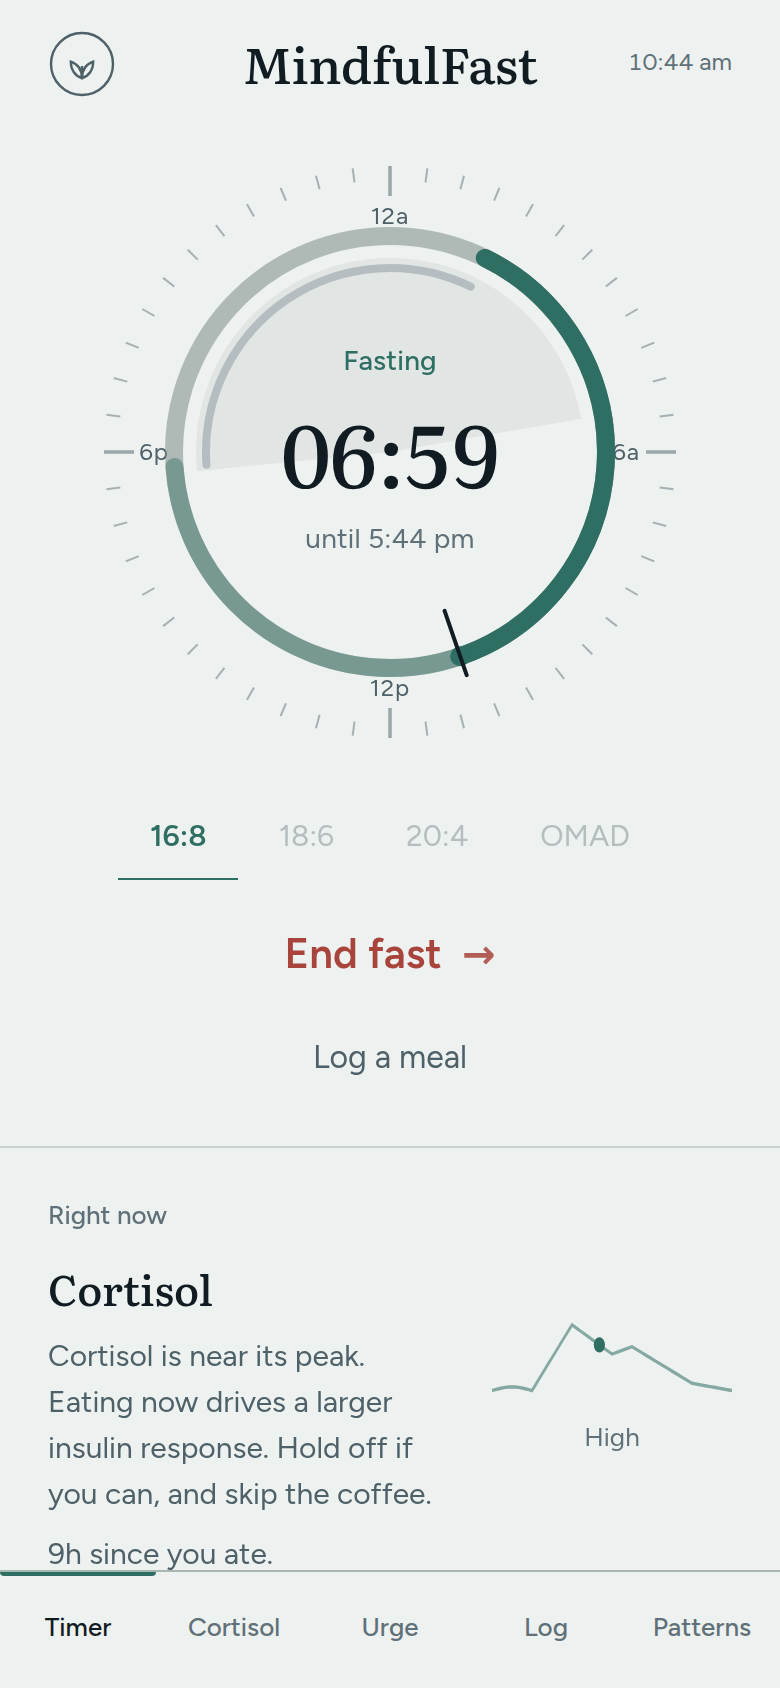
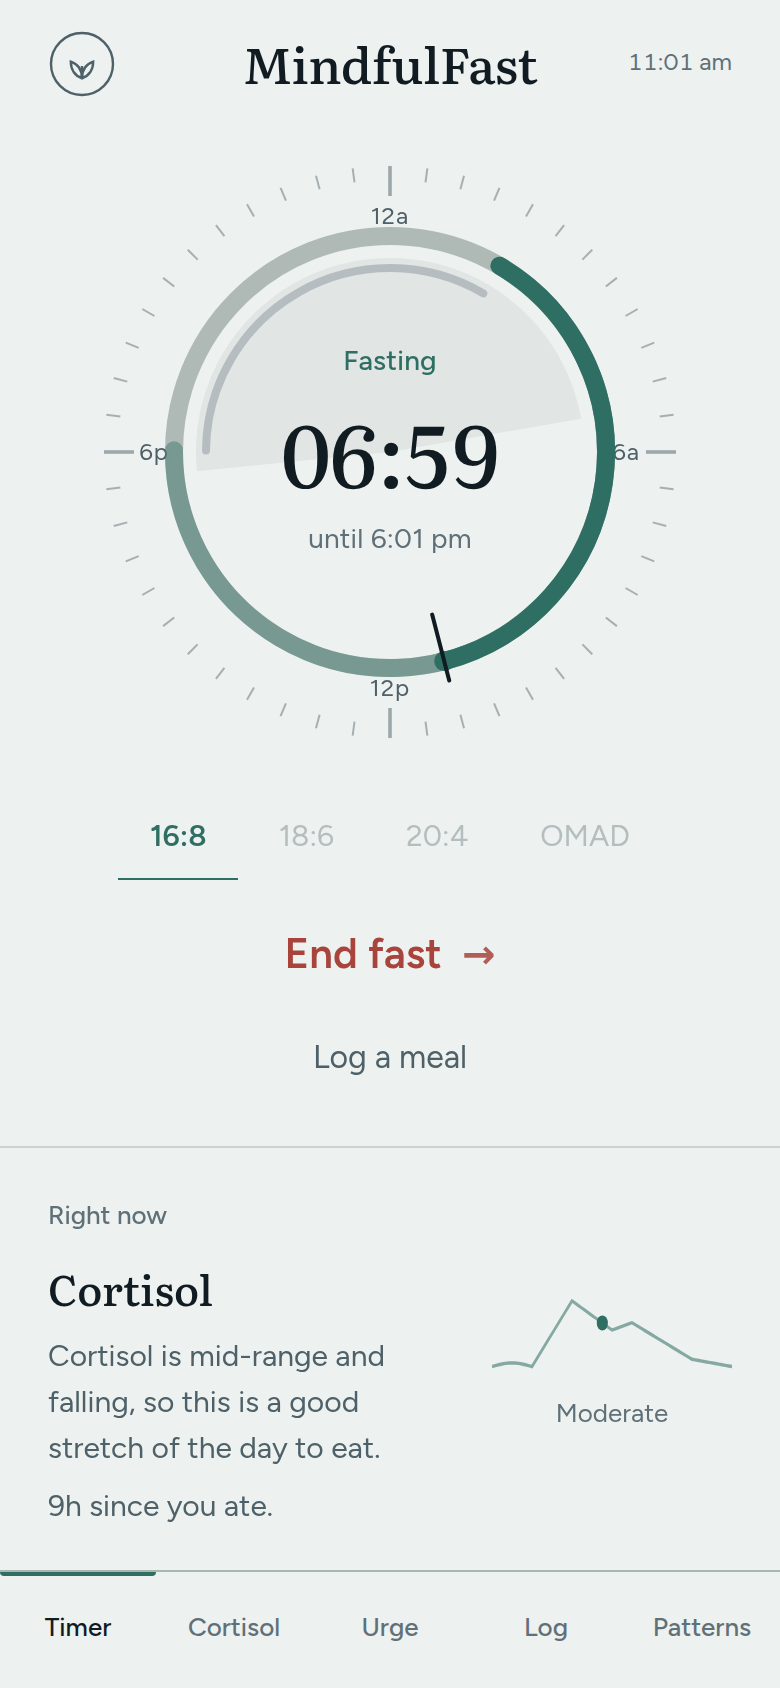
Stop stacking full stops in the interface copy
Audited every user-facing string against the writing rules. The one
systematic problem was rhythm: 62 of 131 strings were exactly two sentences,
34 of them with the two sentences within four words of each other. Every tip
and every piece of guidance was instruction then reason, in matching short
beats, about sixty times over. Read as a list it was a grid.

Joined related thoughts with so, and, because, since, then, and varied the
connector and the length so the result is not just a different grid. Two
sentence strings are down to 17 of 65 and the matched pairs to 5, all of
which have a real break in them: a statement then a question, or a fact then
an instruction.

Clean on em dashes, the ban list, three item lists and American spellings.
Dropped the one possessive carrying a curly apostrophe rather than mixing
punctuation styles. Screenshots regenerated since the copy moved.

diff --git a/index.html b/index.html
@@ -1053,7 +1053,7 @@ button, input { font: inherit; color: inherit; background: none; border: none; }
   <!-- ======================= URGE ======================= -->
   <main class="screen" id="screenUrge">
     <div class="urge-band">
-      <p class="urge-lead">Most urges peak within 15 to 20 minutes and then fade. Start by working out what is causing this one.</p>
+      <p class="urge-lead">Most urges peak within 15 to 20 minutes and then fade, so start by working out what is causing this one.</p>
       <button class="urge-btn" onclick="startUrgeFlow()">
         <span class="urge-btn-l">I have<br>an urge</span>
         <span class="urge-btn-s">Start here</span>
@@ -1064,19 +1064,19 @@ button, input { font: inherit; color: inherit; background: none; border: none; }
       <div class="band-label">Single tools</div>
       <div class="iv" onclick="quickTool('breathe')">
         <div class="iv-h">Slow breathing</div>
-        <div class="iv-p">About 90 seconds, with the out-breath longer than the in-breath. This slows your heart rate down.</div>
+        <div class="iv-p">About 90 seconds with the out-breath longer than the in-breath, which slows your heart rate down.</div>
       </div>
       <div class="iv" onclick="quickTool('walk')">
         <div class="iv-h">Brisk walk</div>
-        <div class="iv-p">Five to ten minutes. Walking clears stress hormones faster than sitting still.</div>
+        <div class="iv-p">Five to ten minutes, because walking clears stress hormones faster than sitting still does.</div>
       </div>
       <div class="iv" onclick="quickTool('leave')">
         <div class="iv-h">Leave the kitchen</div>
-        <div class="iv-p">Go to a different room and shut the door. Being near food is part of what triggers the urge.</div>
+        <div class="iv-p">Go to a different room and shut the door, since being near food is part of what triggers the urge.</div>
       </div>
       <div class="iv" onclick="quickTool('delay')">
         <div class="iv-h">Wait ten minutes</div>
-        <div class="iv-p">Set a timer and decide when it goes off. You can still eat then.</div>
+        <div class="iv-p">Set a timer and decide when it goes off, you can still eat then.</div>
       </div>
     </section>
 
@@ -1646,7 +1646,7 @@ function startFast() {
   saveState();
   scheduleAlarms(); requestNotifications();
   refreshTimer();
-  showToast('Fast started. Eating window opens ' + clock(state.fastEnd) + '.');
+  showToast('Fast started, eating window opens at ' + clock(state.fastEnd) + '.');
 }
 
 function endFast() {
@@ -1739,7 +1739,7 @@ function buildAlarmList() {
     let i = 1;
     for (let t = now + 3600000; t < state.fastEnd.getTime(); t += 3600000, i++) {
       out.push({ id: 'hourly-' + i, at: t,
-                 title: 'Fasting check-in', body: 'Still fasting. Drink some water.' });
+                 title: 'Fasting check-in', body: 'Still fasting, have some water.' });
     }
   }
   return out;
@@ -2012,9 +2012,9 @@ function renderCortisol() {
 }
 
 const ADVICE = {
-  high: 'Cortisol is near its peak. Eating now drives a larger insulin response. Hold off if you can, and skip the coffee.',
-  moderate: 'Cortisol is mid-range and falling. Good stretch of the day to eat.',
-  low: 'Cortisol is at its lowest. Eating now works against the hormones that control sleep.'
+  high: 'Cortisol is near its peak, so eating now drives a larger insulin response. Hold off if you can, and skip the coffee.',
+  moderate: 'Cortisol is mid-range and falling, so this is a good stretch of the day to eat.',
+  low: 'Cortisol is at its lowest, so eating now works against the hormones that control sleep.'
 };
 
 /* The band alone cannot tell you much. How long since you ate changes what
@@ -2044,8 +2044,8 @@ function phaseLabel(h) {
 
 function tipsFor(h) {
   if (h >= 5 && h < 9) return [
-    { h: 'Delay breakfast', p: 'Cortisol is already high. Eating on top of it spikes insulin harder. Wait one to two hours after waking.' },
-    { h: 'Hold the coffee', p: 'Caffeine amplifies a peak that is already happening. It works better around 9 or 10am.' },
+    { h: 'Delay breakfast', p: 'Cortisol is already high and eating on top of it spikes insulin harder. Wait one to two hours after waking.' },
+    { h: 'Hold the coffee', p: 'Caffeine amplifies a peak that is already happening, so it works better around 9 or 10am.' },
     { h: 'Get outside', p: 'Ten minutes of direct daylight helps set your body clock for the day.' }
   ];
   if (h >= 9 && h < 12) return [
@@ -2061,8 +2061,8 @@ function tipsFor(h) {
     { h: 'Cravings are more likely now', p: 'Self-control drops along with cortisol. Impulsive eating is most common in these hours, so decide what you are eating in advance.' }
   ];
   return [
-    { h: 'Cortisol at its lowest', p: 'Cortisol should be at its lowest now. Eating this late disrupts sleep and favours fat storage.' },
-    { h: 'Getting ready for sleep', p: 'Dim the lights and put the screens down. Poor sleep tonight shifts tomorrow’s curve.' }
+    { h: 'Cortisol at its lowest', p: 'Cortisol should be at its lowest now, and eating this late disrupts sleep and favours fat storage.' },
+    { h: 'Getting ready for sleep', p: 'Dim the lights and put the screens down, because poor sleep tonight shifts the curve tomorrow.' }
   ];
 }
 
@@ -2237,7 +2237,7 @@ function runBreathe() {
       if (++breathe.round > breathe.rounds) {
         const inFlow = breathe.fromFlow;
         stopBreathing();
-        if (!inFlow) showToast('Finished. Check whether the urge has changed.');
+        if (!inFlow) showToast('Finished. How is the urge now?');
         return;
       }
     }
@@ -2520,7 +2520,7 @@ function renderEatingPlan() {
   if (!state.eating.on) {
     wrap.innerHTML = '';
     note.className = 'eat-note';
-    note.textContent = 'Long gaps between meals make loss-of-control eating more likely, not less. If that is a pattern for you, eating on a schedule usually settles it.';
+    note.textContent = 'Long gaps between meals make loss-of-control eating more likely, not less, so if that is a pattern for you then eating on a schedule usually settles it.';
     return;
   }
 
@@ -2570,17 +2570,17 @@ const BUCKETS = {
     name: 'Calm your body',
     why: 'Slow your heart rate down first, then decide.',
     actions: [
-      { id: 'breathe', name: 'Slow breathing', mins: 2,  tip: 'In for four, out for six. Keep the out-breath longer than the in-breath.' },
-      { id: 'relax',   name: 'Release your shoulders', mins: 3, tip: 'Tense a muscle group hard for five seconds, then let go. Jaw, shoulders, hands, legs.' },
-      { id: 'sit',     name: 'Sit still and count exhales', mins: 5, tip: 'Count ten breaths out. Lost count is normal, start again at one.' }
+      { id: 'breathe', name: 'Slow breathing', mins: 2,  tip: 'In for four and out for six, so the out-breath stays longer.' },
+      { id: 'relax',   name: 'Release your shoulders', mins: 3, tip: 'Tense a muscle group hard for five seconds then let go, working through jaw, shoulders, hands and legs.' },
+      { id: 'sit',     name: 'Sit still and count exhales', mins: 5, tip: 'Count ten breaths out, then start again at one if you lose count.' }
     ]
   },
   move: {
     name: 'Use up the adrenaline',
     why: 'Physical activity clears stress hormones faster than sitting still.',
     actions: [
-      { id: 'walk',    name: 'Brisk walk', mins: 10, tip: 'Outside if you can. Walk fast enough to breathe harder.' },
-      { id: 'stretch', name: 'Stretch', mins: 5, tip: 'Neck, shoulders, hips, hamstrings. Slowly, and do not force any of them.' },
+      { id: 'walk',    name: 'Brisk walk', mins: 10, tip: 'Outside if you can, fast enough that you are breathing harder.' },
+      { id: 'stretch', name: 'Stretch', mins: 5, tip: 'Neck, shoulders, hips and hamstrings, slowly, without forcing any of them.' },
       { id: 'song',    name: 'Move for one song', mins: 4, tip: 'Pick something fast and keep moving until it ends.' }
     ]
   },
@@ -2588,19 +2588,19 @@ const BUCKETS = {
     name: 'Change where you are',
     why: 'Being near food is part of what triggers the urge.',
     actions: [
-      { id: 'leave',   name: 'Leave the kitchen', mins: 10, tip: 'Different room, door shut. Take your phone so you have a reason to stay.' },
-      { id: 'outside', name: 'Step outside', mins: 5,  tip: 'The front step is far enough. Daylight and cooler air both help.' },
-      { id: 'shower',  name: 'Shower or wash your face', mins: 8, tip: 'Cold or warm water both work. It also keeps you out of the kitchen for a few minutes.' }
+      { id: 'leave',   name: 'Leave the kitchen', mins: 10, tip: 'Different room with the door shut, and take your phone so you have a reason to stay put.' },
+      { id: 'outside', name: 'Step outside', mins: 5,  tip: 'The front step is far enough, since daylight and cooler air both help.' },
+      { id: 'shower',  name: 'Shower or wash your face', mins: 8, tip: 'Cold or warm water both work, plus it keeps you out of the kitchen for a few minutes.' }
     ]
   },
   soothe: {
     name: 'Comfort yourself another way',
     why: 'Food is the quickest thing to reach for, but it is usually not what you need.',
     actions: [
-      { id: 'drink',   name: 'Make a warm drink', mins: 6,  tip: 'Tea, decaf, hot water. Making it takes about as long as the urge does.' },
+      { id: 'drink',   name: 'Make a warm drink', mins: 6,  tip: 'Tea, decaf or hot water, since making it takes about as long as the urge does.' },
       { id: 'write',   name: 'Write down what happened', mins: 5, tip: 'One prompt: what stressed me just now? Nobody else reads it.' },
-      { id: 'reach',   name: 'Text or call someone', mins: 8, tip: 'You do not have to mention food. Any conversation works.' },
-      { id: 'audio',   name: 'Put on something calming', mins: 10, tip: 'Music or a podcast. Something you have to pay a bit of attention to.' }
+      { id: 'reach',   name: 'Text or call someone', mins: 8, tip: 'You do not have to mention food, any conversation works.' },
+      { id: 'audio',   name: 'Put on something calming', mins: 10, tip: 'Music or a podcast, something you have to pay a bit of attention to.' }
     ]
   }
 };
@@ -2727,7 +2727,7 @@ const FLOW_VIEWS = {
     <div class="flow-q">${stressed ? 'What do you want to try?' : 'Are you physically hungry?'}</div>
     <div class="flow-hint">${stressed
       ? 'Each option runs a timer while you do it.'
-      : 'Empty stomach, low energy, a while since you last ate. Wanting to eat is a separate thing.'}</div>
+      : 'Think empty stomach, low energy, and a while since you last ate. Just wanting to eat is a different thing.'}</div>
     <div class="opts col">
       ${stressed ? '' :
         `<button class="opt${flow.draft.bucket === 'hungry' ? ' on' : ''}" data-set="bucket" data-val="hungry">
@@ -2846,7 +2846,7 @@ Object.assign(ALL_ACTIONS, {
                tip: 'Serve the amount you planned, then start.' },
   'eat-now': { id: 'eat-now', name: 'Eat now', mins: 0, tip: '' },
   delay:     { id: 'delay',   name: 'Ten minute pause', mins: 10,
-               tip: 'Waiting two minutes is a decision too. The urge usually drops in that time.' }
+               tip: 'Waiting two minutes is a decision too, and the urge usually drops in that time.' }
 });
 
 document.getElementById('flowBody').addEventListener('click', e => {
@@ -2933,7 +2933,7 @@ function paintHold() {
   if (left <= 0 && flow.holdTimer) {
     clearInterval(flow.holdTimer); flow.holdTimer = null;
     chime();
-    showToast('Time is up. Check whether the urge has changed.');
+    showToast('Time is up, check whether the urge has changed.');
   }
 }
 
@@ -3093,7 +3093,7 @@ function renderInsights(eps, byHour) {
     const avg = rated.reduce((s, e) => s + (e.urge0 - e.urge1), 0) / rated.length;
     out.push(avg > 0
       ? 'Urges drop by about ' + avg.toFixed(1) + ' points once you do something. They fade on their own more often than it feels like they will.'
-      : 'Your urges are not dropping much yet. Try a longer timer, or a different kind of tool.');
+      : 'Your urges are not dropping much yet, so try a longer timer or a different kind of tool.');
   }
 
   // The signal that matters most in a fasting app: urges concentrating late
@@ -3185,10 +3185,10 @@ document.addEventListener('click', e => {
 
 /* ---------------- insight sheet ---------------- */
 const WHY = {
-  high: [['Cortisol is near its peak', 'Waking drives a sharp rise that takes a few hours to come down. Eating into that peak produces a larger insulin response than the same food later.'],
-         ['What helps', 'Delay the first meal an hour or two if you can, hold the coffee until the curve is falling, and get some daylight. Morning light is what keeps the rhythm on time.']],
+  high: [['Cortisol is near its peak', 'Waking drives a sharp rise that takes a few hours to come down, so eating into that peak produces a larger insulin response than the same food would later.'],
+         ['What helps', 'Delay the first meal an hour or two if you can, and hold the coffee until the curve is falling. Get some daylight too, since morning light is what keeps the rhythm on time.']],
   moderate: [['Cortisol is mid-range and falling', 'Insulin sensitivity is reasonable here, and appetite signals are more trustworthy than they are at either end of the day.'],
-             ['What helps', 'If you are breaking a fast, this is the window to do it. Protein first steadies blood sugar and takes the edge off the late-afternoon dip.']],
+             ['What helps', 'If you are breaking a fast this is the window to do it, and protein first steadies blood sugar and takes the edge off the late-afternoon dip.']],
   low: [['Cortisol is at its lowest', 'Most tissue repair happens during the overnight low. Self-control is also at its weakest then, which is why urges are more common in the evening.'],
         ['What helps', 'Eating now works against the hormones that control sleep. An urge at this hour is more likely to be stress or tiredness than hunger, so the Urge tab asks which one it is.']]
 };
